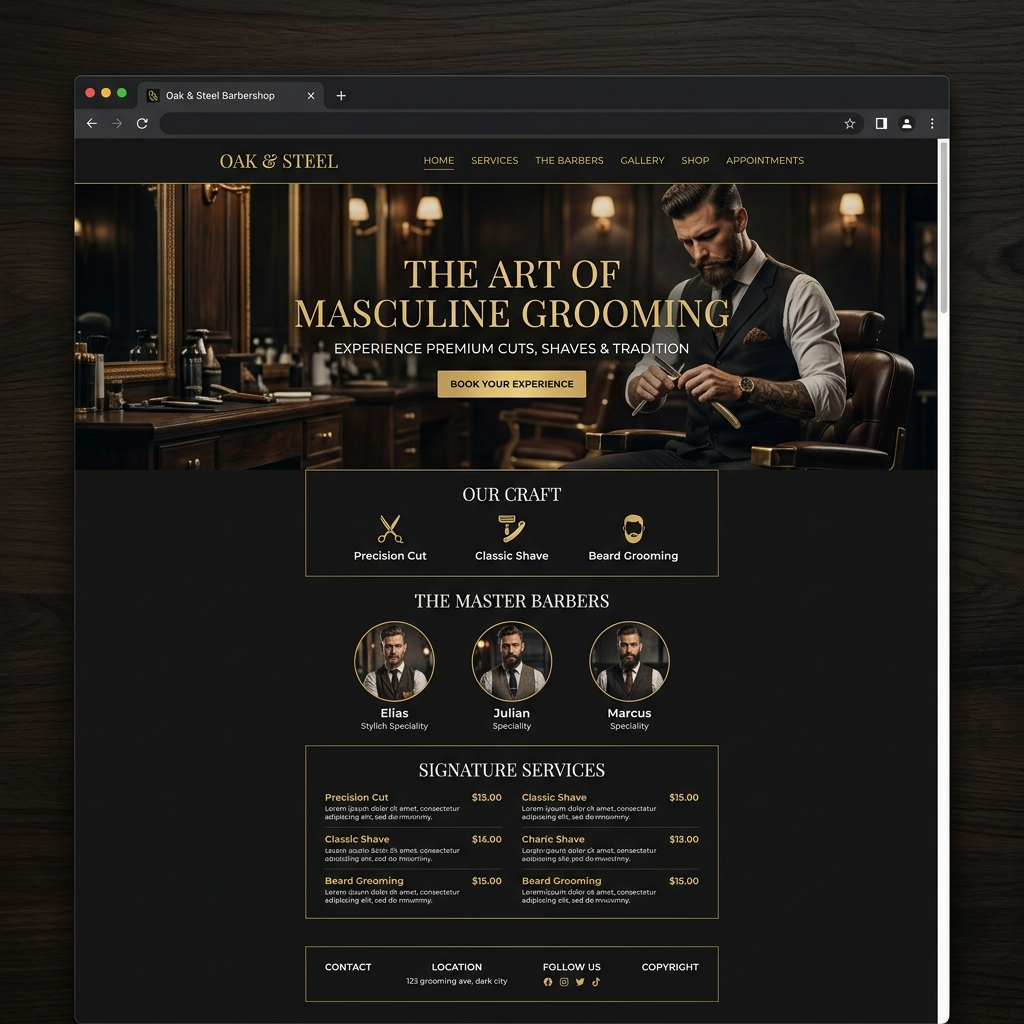
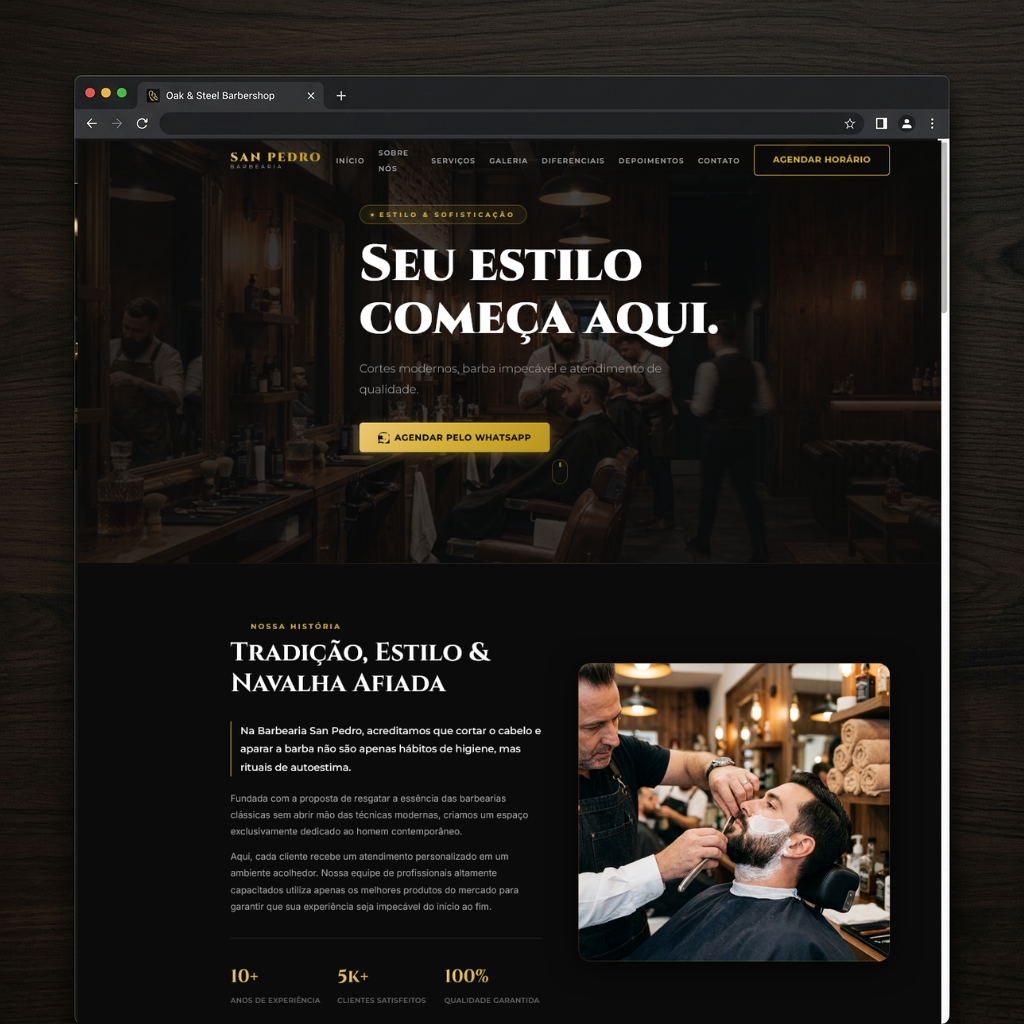
My Digital Agency

diff --git a/index.html b/index.html
@@ -434,10 +434,10 @@
                 <h3 class="project-title">Barbearia Premium</h3>
                 <p class="project-desc">
                   Site desenvolvido com visual requintado (preto e dourado) e
-                  sistema integrado de agendamento online de serviços.
+                  com sistema de agendamento de serviços.
                 </p>
                 <a
-                  href="https://wa.me/5511997290454?text=Ol%C3%A1%20Juan%2C%20gostaria%20de%20ver%20mais%20detalhes%20sobre%20o%20projeto%20Barbearia%20Premium"
+                  href="https://jpgarcia42.github.io/Barbearia_San_Pedro/"
                   target="_blank"
                   rel="noopener noreferrer"
                   class="btn btn-secondary project-btn"
@@ -751,15 +751,14 @@
                 &#9733; &#9733; &#9733; &#9733; &#9733;
               </div>
               <p class="testimonial-text">
-                "O site superou todas as expectativas da nossa barbearia. O
-                design ficou impecável e o suporte do Juan foi incrível desde o
-                início do projeto."
+                "O site superou todas as expectativas. O design ficou impecável
+                e o suporte do Juan foi incrível desde o início do projeto."
               </p>
               <div class="testimonial-user">
                 <div class="testimonial-avatar">CM</div>
                 <div class="testimonial-user-info">
                   <h4>Carlos M.</h4>
-                  <p>Proprietário, Barbearia Premium</p>
+                  <p>Proprietário</p>
                 </div>
               </div>
             </div>
